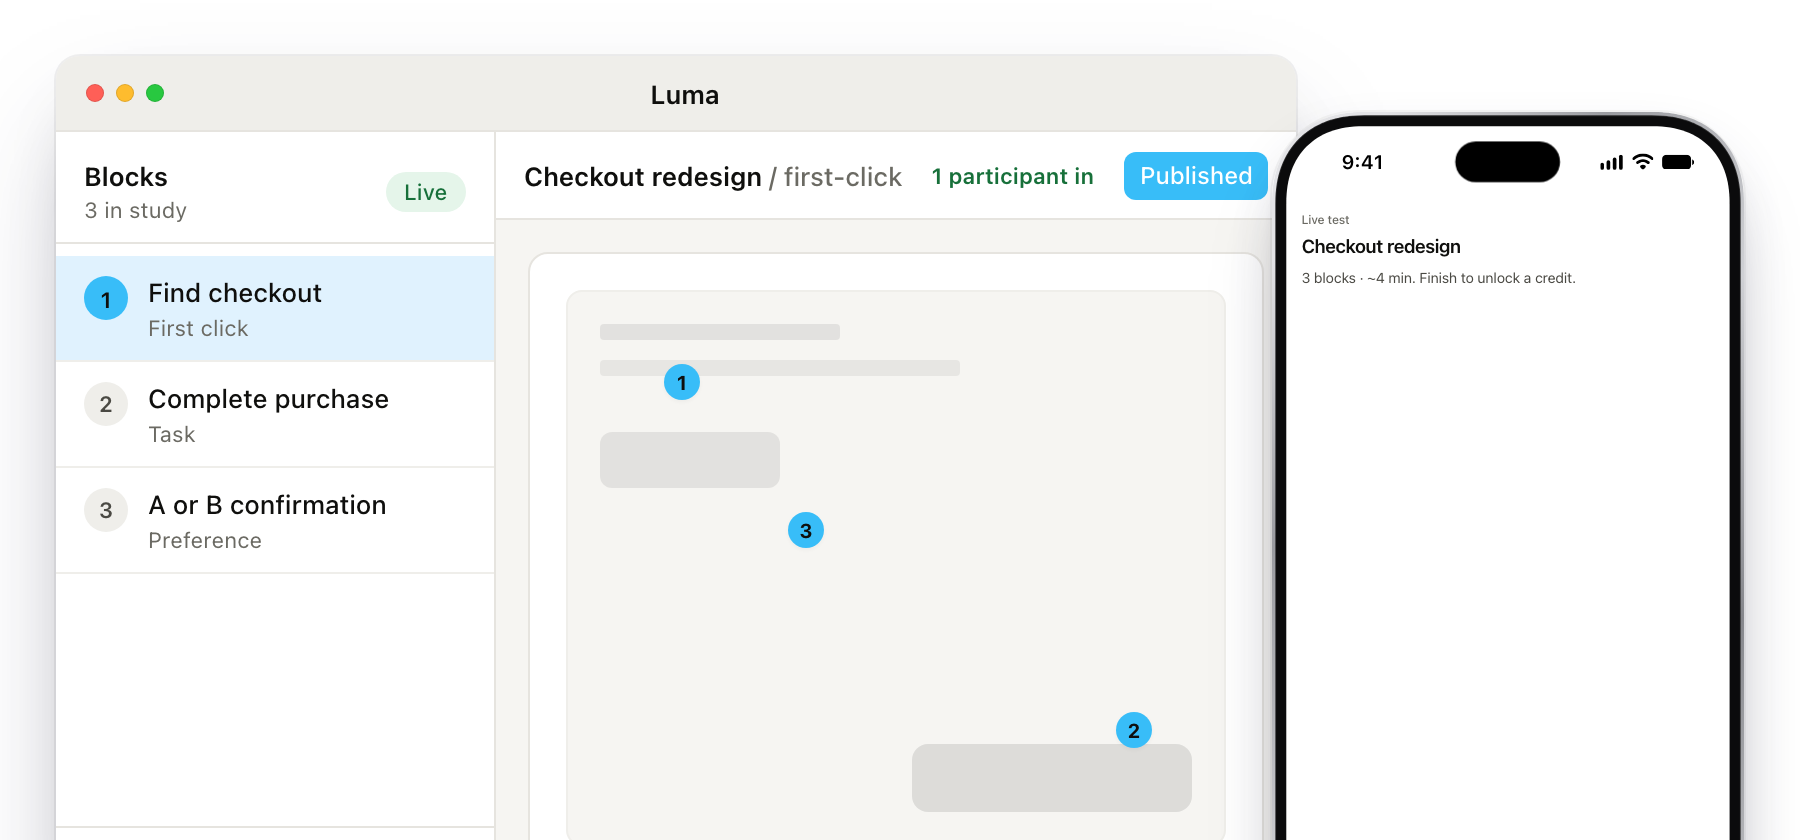
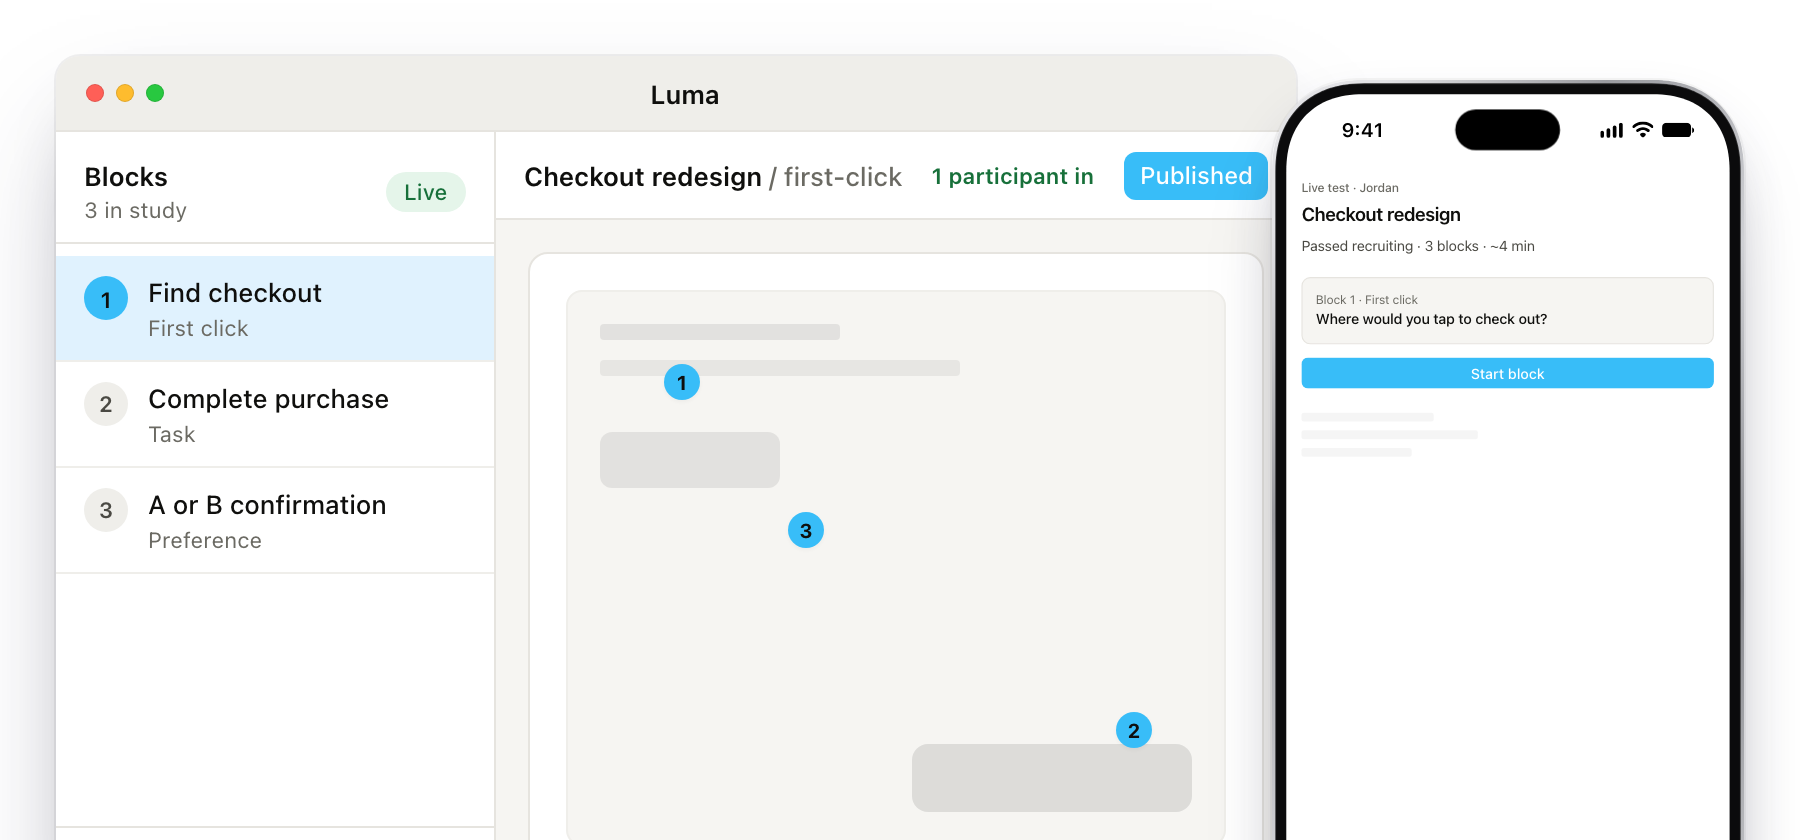
Keep phone payoff (task + Start) above the stage crop

Changed region(s): [[0.6844, 0.0929, 0.9956, 0.4643]]

diff --git a/components/stageshow/hero-flow/HeroFlow.tsx b/components/stageshow/hero-flow/HeroFlow.tsx
@@ -281,10 +281,10 @@ export function HeroFlow() {
 
             {s.phone === "test" && (
               <div className="hf-test">
-                <div className="hf-test-kicker">Live test</div>
+                <div className="hf-test-kicker">Live test · Jordan</div>
                 <div className="hf-test-title">Checkout redesign</div>
                 <div className="hf-test-body">
-                  3 blocks · ~4 min. Finish to unlock a credit.
+                  Passed recruiting · 3 blocks · ~4 min
                 </div>
                 <div className="hf-test-task">
                   <div className="hf-test-task-label">Block 1 · First click</div>
@@ -299,6 +299,12 @@ export function HeroFlow() {
                 >
                   Start block
                 </Button>
+                {/* Filler below stays in the stage crop */}
+                <div className="hf-test-fill" aria-hidden>
+                  <Bar w={120} h={8} tone={1} style={{ marginTop: 22 }} />
+                  <Bar w={160} h={8} tone={1} style={{ marginTop: 8 }} />
+                  <Bar w={100} h={8} tone={1} style={{ marginTop: 8 }} />
+                </div>
               </div>
             )}
           </Phone>

diff --git a/components/stageshow/hero-flow/hero-flow.css b/components/stageshow/hero-flow/hero-flow.css
@@ -190,7 +190,7 @@
 
 .hf-phone {
   position: absolute;
-  top: 56px;
+  top: 40px;
   right: var(--gutter);
   box-shadow: var(--ss-shadow-satellite), 0 28px 48px -18px rgba(15, 15, 13, 0.28);
 }
@@ -275,7 +275,7 @@
 }
 
 .hf-test-task {
-  margin-top: auto;
+  margin-top: 4px;
   padding: 12px;
   border-radius: var(--ss-radius-md);
   background: var(--ss-surface);
